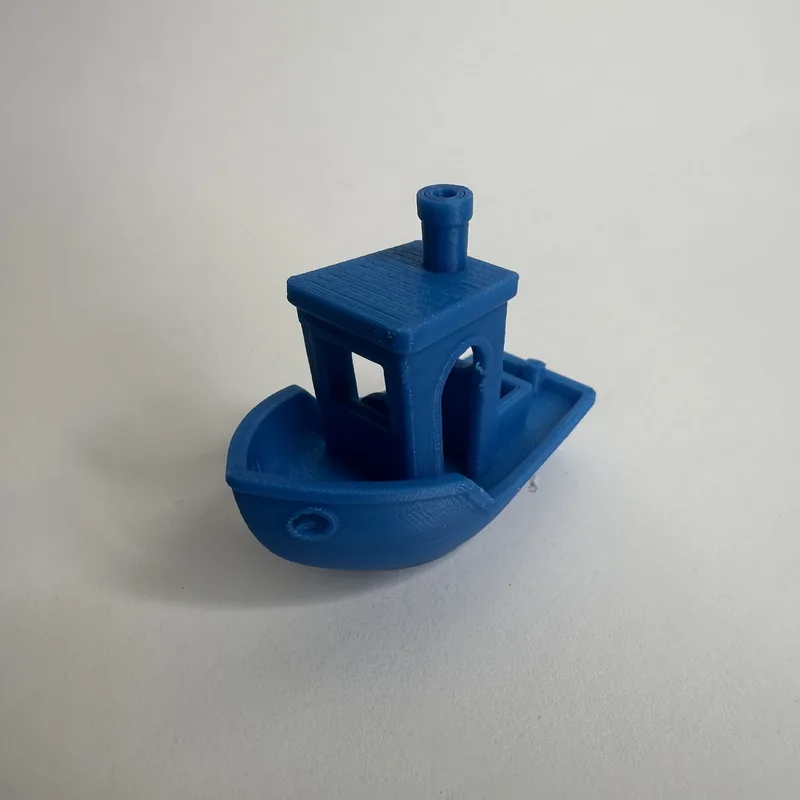
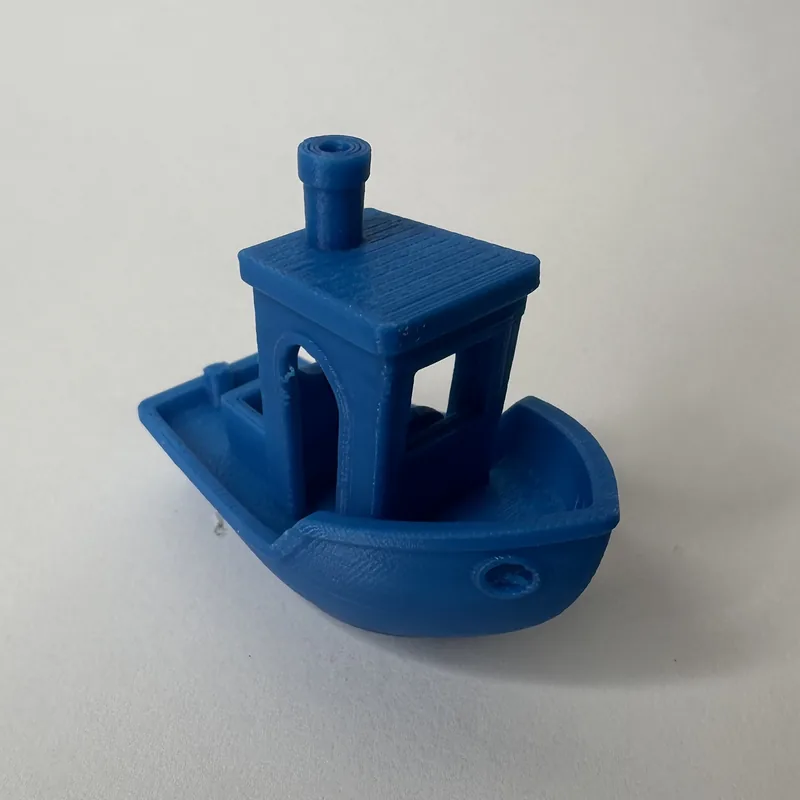
Walkthrough teaser: add the whistle; boat photos mirrored and cropped closer
The whistle's real prints are complete in all four filaments and its photos match the
previews' viewpoint closely. Boat and whistle photos come from the full-resolution originals,
cropped around the object; the boat photos are mirrored to face the same way as the preview.
Caption no longer says the photos were taken from above.

diff --git a/walkthrough/index.html b/walkthrough/index.html
@@ -180,7 +180,7 @@ footer { margin: 80px 0 40px; font-size: 13px; color: var(--faint); }
       <div class="controls">
         <span class="label">Object</span>
         <span class="seg" data-group="tobj">
-          <button data-v="octopus" class="on">Octopus</button><button data-v="boat">Boat</button>
+          <button data-v="octopus" class="on">Octopus</button><button data-v="boat">Boat</button><button data-v="whistle">Whistle</button>
         </span>
         <span class="label" style="margin-left:10px">Filament</span>
         <span class="seg" data-group="tmat">
@@ -195,7 +195,7 @@ footer { margin: 80px 0 40px; font-size: 13px; color: var(--faint); }
     </div>
     <figcaption><b>From a slicer screenshot to a preview of the print.</b> Pick an object and a filament. The middle column is VisiPrint's
       output, generated by the released pipeline on a GPU from the screenshot on the left and a photo of a small sample printed in that filament.
-      The right column is a photo of the object actually printed in that filament (taken from above, so the viewpoint differs).</figcaption>
+      The right column is a photo of the object actually printed in that filament (photographed separately, so the viewpoint differs a little).</figcaption>
   </figure>
 </section>
 
@@ -486,7 +486,7 @@ function updTeaser() {
 }
 seg('tobj', (v) => { T.obj = v; updTeaser(); });
 seg('tmat', (v) => { T.mat = v; updTeaser(); });
-whenIdle(() => preload(['octopus', 'boat'].flatMap((o) => ['pink', 'silver', 'blue', 'clear'].flatMap((m) => [`assets/prev_${o}_${m}.webp`, `assets/real_${o}_${m}.webp`]))));
+whenIdle(() => preload(['octopus', 'boat', 'whistle'].flatMap((o) => ['pink', 'silver', 'blue', 'clear'].flatMap((m) => [`assets/prev_${o}_${m}.webp`, `assets/real_${o}_${m}.webp`]))));
 
 // ---------- compare slider ----------
 (function () {
